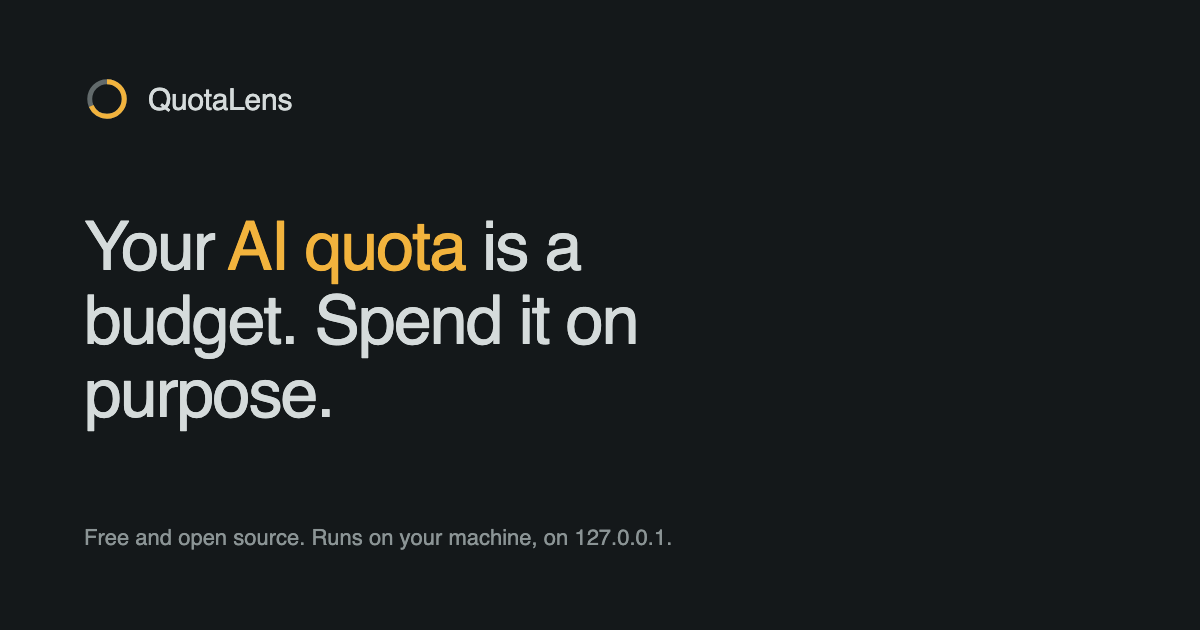
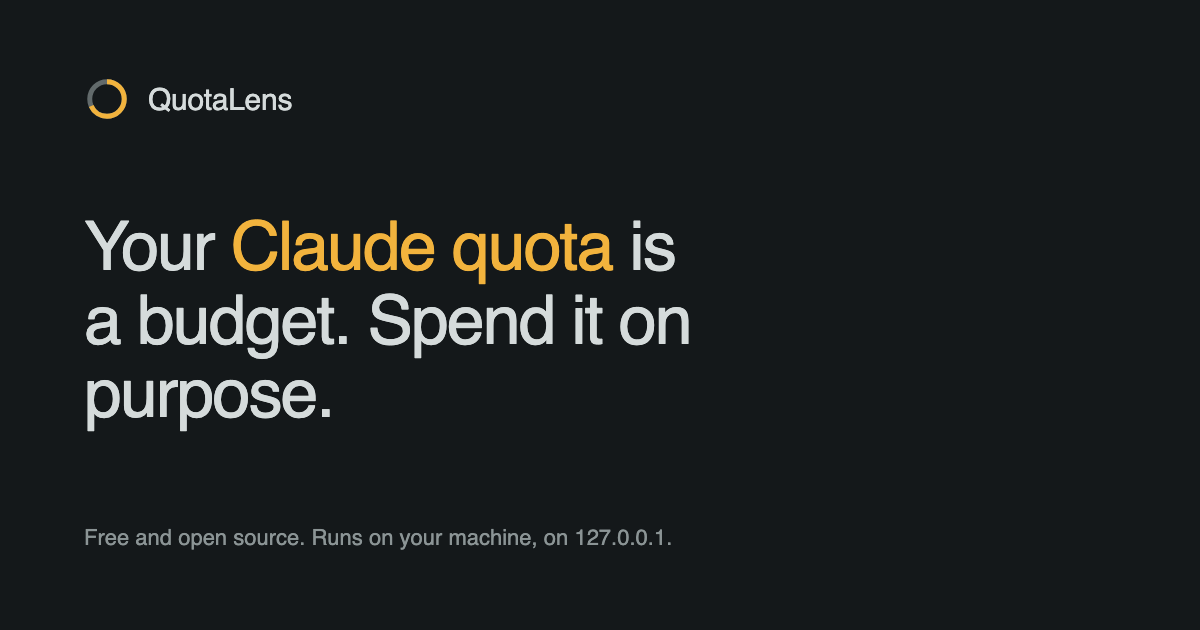
docs: the package points at quotalens.com; [project.urls] for PyPI
The site, the repository and the PyPI package did not link to each other.
The README's first paragraph now links quotalens.com and its install page,
in the README's own voice, and pyproject.toml gains the [project.urls]
table (Homepage, Documentation, Repository, Issues, Changelog) that PyPI
renders in the sidebar. The urls reach PyPI with the next release; the 1.0
page stays as it is until then.

design/og-image.png is the card re-rendered from the site's new H1 ("Your
Claude quota is a budget. Spend it on purpose."), the same bytes
quotalens-web ships, so sync-brand.sh stays truthful.

The repository's Website field and topics (claude, quota, monitoring, cli,
self-hosted, observability) were set with gh repo edit at the same time.

Claude-Session: https://claude.ai/code/session_01MJoRkNNYQ65VYWXfwceSfM

Changed region(s): [[0.0617, 0.3317, 0.5858, 0.573]]

diff --git a/README.md b/README.md
@@ -3,7 +3,9 @@
 [![CI](https://github.com/amitshcc/quotalens/actions/workflows/ci.yml/badge.svg)](https://github.com/amitshcc/quotalens/actions/workflows/ci.yml)
 
 Claude tells you what is consuming your quota right now, and then forgets.
-QuotaLens remembers.
+QuotaLens remembers. The short version, with the dashboard, is at
+[quotalens.com](https://quotalens.com); the install page is
+[quotalens.com/install](https://quotalens.com/install).
 
 It is a local, self-hosted monitor for Claude Pro and Max subscription usage. It
 polls your account every minute, keeps the series in a SQLite file you own, and
